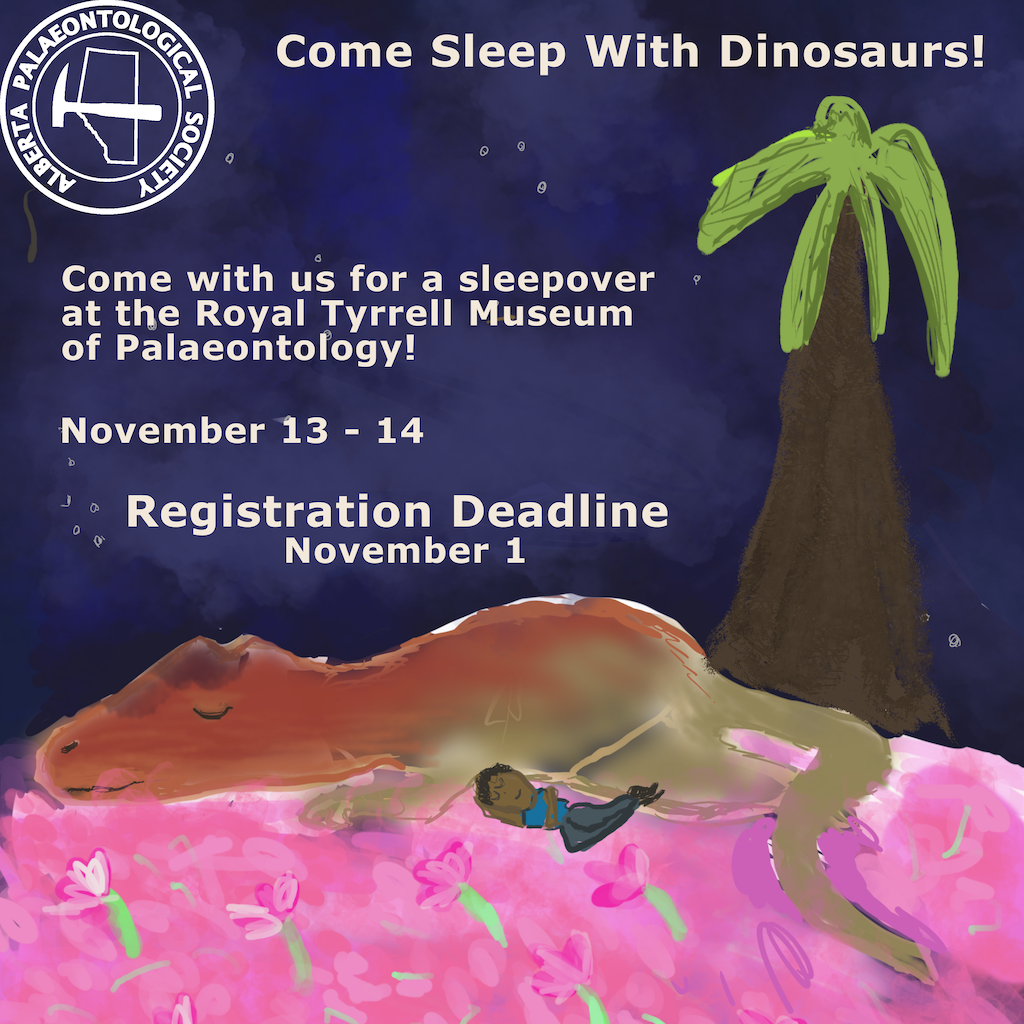
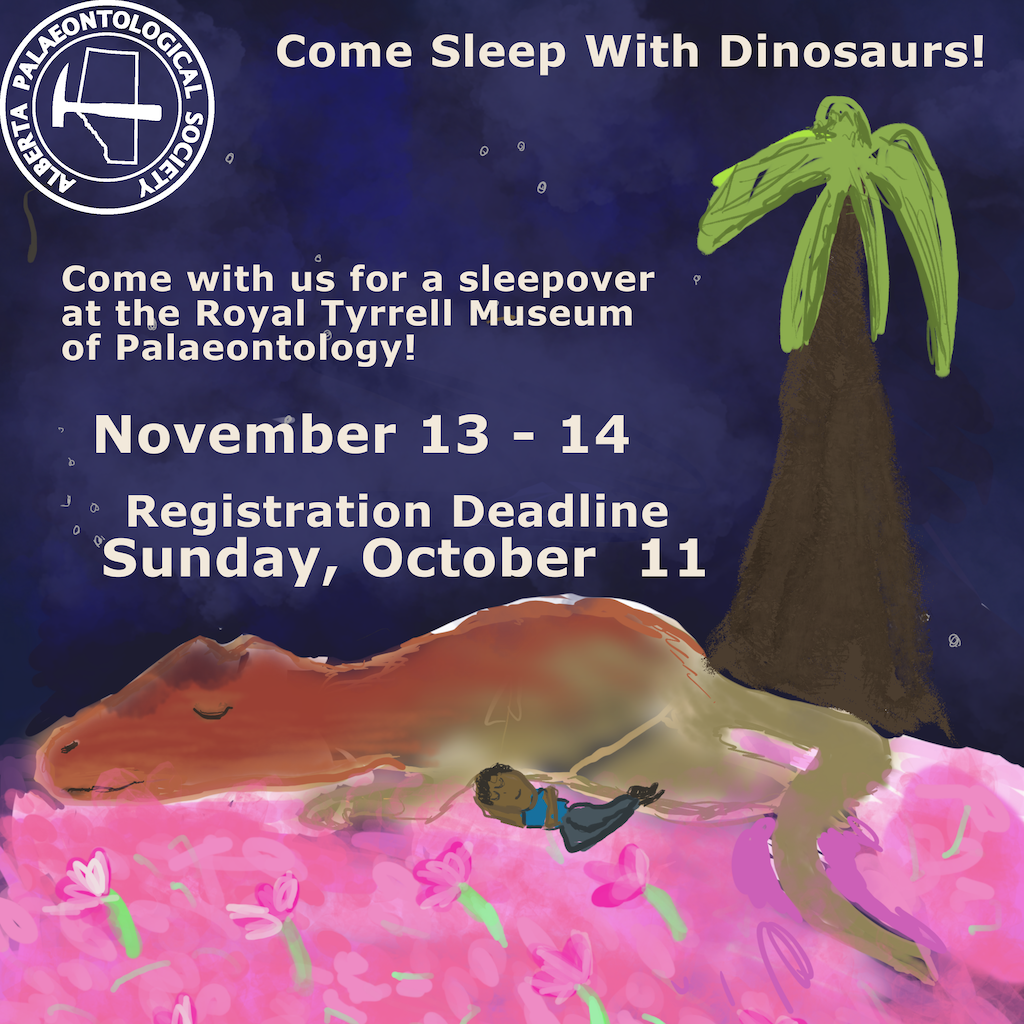
fix: updated rtmp sleep in date to october 11

Changed region(s): [[0.0625, 0.4062, 0.625, 0.4688], [0.0938, 0.5, 0.5938, 0.5938], [0.625, 0.5312, 0.6875, 0.5625]]

diff --git a/src/content/announcements/2026-09-rtmp-sleep-in-announcement.md b/src/content/announcements/2026-09-rtmp-sleep-in-announcement.md
@@ -1,11 +1,11 @@
 ---
 title: 'Dinovember Sleepover at the Royal Tyrrell Museum!'
 startDate: '2026-09-07'
-endDate: '2026-11-01'
+endDate: '2026-10-11'
 ---
 
 <figure style="display:flex; align-items: center; justify-content: center; flex-direction: column;">
-    <img src="/fieldTrips/2026/rtmpsleepin-deadlineAnnouncement-small.png" alt="Promotional poster for the Dinovember sleepover, showing a child sleeping beside a dinosaur under a starry sky. Dates are November 13–14, with a registration deadline of November 1." style="max-width: 60%;">
+    <img src="/fieldTrips/2026/rtmpsleepin-deadlineAnnouncement-small.png" alt="Promotional poster for the Dinovember sleepover, showing a child sleeping beside a dinosaur under a starry sky. Dates are November 13–14, with a registration deadline of October 11." style="max-width: 60%;">
     <figcaption></figcaption>
 </figure>
 
@@ -15,7 +15,7 @@ The Alberta Palaeontological Society is excited to invite you to a special overn
 
 **Price**: $54 per person
 
-**Registration Deadline**: Sunday, November 1
+**Registration Deadline**: Sunday, October 11
 
 We’ve reserved 10 spots, with additional spots available on a first-come, first-served basis, so don't delay!
 

diff --git a/src/content/events/2026-11-13-fieldTrip-rtmp-sleepin.md b/src/content/events/2026-11-13-fieldTrip-rtmp-sleepin.md
@@ -6,14 +6,14 @@ type: 'Field Trip'
 location: 'Royal Tyrrell Museum of Palaeontology, Drumheller, AB'
 image:
     src: '/fieldTrips/2026/rtmpsleepin-deadlineAnnouncement-small.png'
-    alt: 'Promotional poster for the Dinovember sleepover, showing a child sleeping beside a dinosaur under a starry sky. Dates are November 13–14, with a registration deadline of November 1.'
+    alt: 'Promotional poster for the Dinovember sleepover, showing a child sleeping beside a dinosaur under a starry sky. Dates are November 13–14, with a registration deadline of October 11.'
 ---
 
 The Alberta Palaeontological Society is excited to invite you to a special overnight event at the Royal Tyrrell Museum of Palaeontology in Drumheller, Alberta!
 
 **Date**: Friday, November 13 - Saturday, November 14
 
-**Registration Deadline**: Sunday, November 1
+**Registration Deadline**: Sunday, October 11
 
 **Itinerary**:
 
